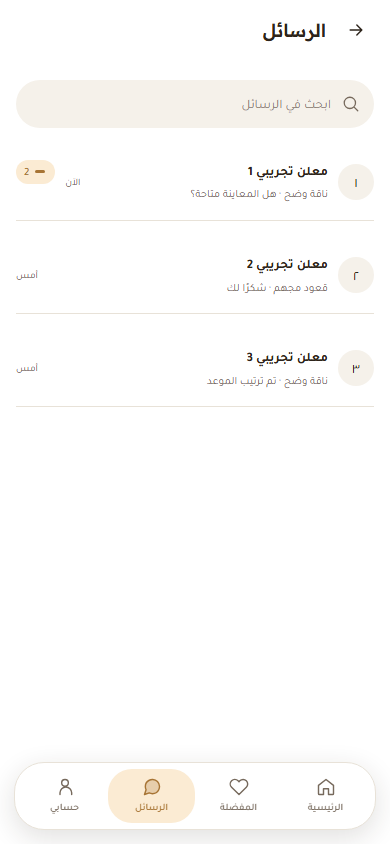
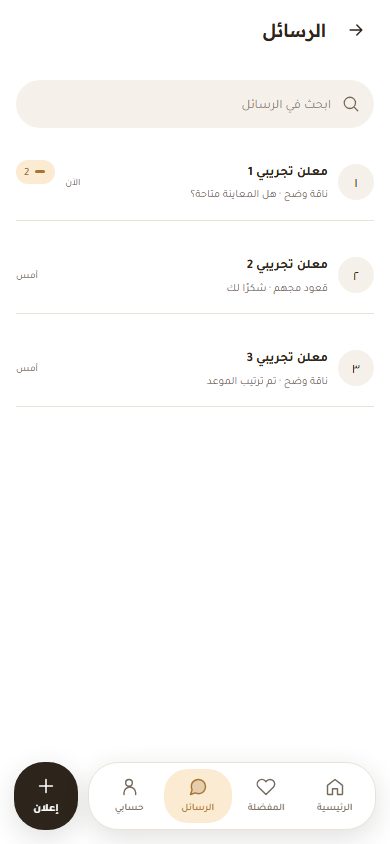
Distinct gallery: show new-ad button on all bottom-nav screens so the bar keeps one size

Changed region(s): [[0.2769, 0.8934, 0.7077, 0.9858], [0.0308, 0.8934, 0.2154, 0.9858], [0.8, 0.9242, 0.8923, 0.9858]]

diff --git a/distinct/screens/G01-dark.html b/distinct/screens/G01-dark.html
@@ -153,7 +153,7 @@ dialog{border-radius:26px}.note{border-radius:16px}
 html[data-theme=dark] .seg-progress i{background:#ffffff1f}
 .sheet-preview{border-radius:30px 30px 18px 18px}
 .theme-swatch{border-radius:18px}
-</style></head><body data-screen="G01"><div class="app has-nav   "><header class="app-header"><button class="icon-btn" type="button" aria-label="رجوع" data-go=B01 ><svg class="icon " viewBox="0 0 24 24" fill="none" stroke="currentColor" stroke-width="1.7" stroke-linecap="round" stroke-linejoin="round" aria-hidden="true"><path d="M5 12h14m-6-6 6 6-6 6"/></svg></button><h1>حسابي</h1><span class="header-spacer"></span></header><main class="content"><div class="account-head"><span class="avatar large">م</span><div><h1>مستخدم تجريبي</h1><small>الرياض · <bdi dir="ltr">05*****321</bdi></small></div><button class="icon-btn" type="button" aria-label="تعديل الملف" data-go=G02 ><svg class="icon " viewBox="0 0 24 24" fill="none" stroke="currentColor" stroke-width="1.7" stroke-linecap="round" stroke-linejoin="round" aria-hidden="true"><path d="m16 3 5 5-13 13H3v-5zM14 5l5 5"/></svg></button></div><div class="grouped-list"><button type="button" class="list-row" data-go=E01><svg class="icon " viewBox="0 0 24 24" fill="none" stroke="currentColor" stroke-width="1.7" stroke-linecap="round" stroke-linejoin="round" aria-hidden="true"><path d="M14 2H5v20h14V7zM14 2v5h5M8 12h8M8 16h6"/></svg><span class="row-copy"><span>إعلاناتي</span></span><svg class="icon muted" viewBox="0 0 24 24" fill="none" stroke="currentColor" stroke-width="1.7" stroke-linecap="round" stroke-linejoin="round" aria-hidden="true"><path d="m14 6-6 6 6 6"/></svg></button><button type="button" class="list-row" data-go=G03><svg class="icon " viewBox="0 0 24 24" fill="none" stroke="currentColor" stroke-width="1.7" stroke-linecap="round" stroke-linejoin="round" aria-hidden="true"><path d="M20.8 4.6a5.5 5.5 0 0 0-7.8 0L12 5.7l-1.1-1.1a5.5 5.5 0 0 0-7.8 7.8L12 21l8.8-8.6a5.5 5.5 0 0 0 0-7.8z"/></svg><span class="row-copy"><span>المتابعات والبحث المحفوظ</span></span><svg class="icon muted" viewBox="0 0 24 24" fill="none" stroke="currentColor" stroke-width="1.7" stroke-linecap="round" stroke-linejoin="round" aria-hidden="true"><path d="m14 6-6 6 6 6"/></svg></button><button type="button" class="list-row" data-go=G04><svg class="icon " viewBox="0 0 24 24" fill="none" stroke="currentColor" stroke-width="1.7" stroke-linecap="round" stroke-linejoin="round" aria-hidden="true"><path d="M18 8a6 6 0 0 0-12 0c0 7-3 7-3 9h18c0-2-3-2-3-9M10 21h4"/></svg><span class="row-copy"><span>التنبيهات</span></span><svg class="icon muted" viewBox="0 0 24 24" fill="none" stroke="currentColor" stroke-width="1.7" stroke-linecap="round" stroke-linejoin="round" aria-hidden="true"><path d="m14 6-6 6 6 6"/></svg></button><button type="button" class="list-row" data-go=G08><svg class="icon " viewBox="0 0 24 24" fill="none" stroke="currentColor" stroke-width="1.7" stroke-linecap="round" stroke-linejoin="round" aria-hidden="true"><path d="M5 10h14v12H5zM8 10V6a4 4 0 0 1 8 0v4"/></svg><span class="row-copy"><span>المحظورون</span></span><svg class="icon muted" viewBox="0 0 24 24" fill="none" stroke="currentColor" stroke-width="1.7" stroke-linecap="round" stroke-linejoin="round" aria-hidden="true"><path d="m14 6-6 6 6 6"/></svg></button><button type="button" class="list-row" data-go=G09><svg class="icon " viewBox="0 0 24 24" fill="none" stroke="currentColor" stroke-width="1.7" stroke-linecap="round" stroke-linejoin="round" aria-hidden="true"><path d="M12 11v6M12 7h.01M22 12a10 10 0 1 1-20 0 10 10 0 0 1 20 0"/></svg><span class="row-copy"><span>الشروط والمساعدة</span></span><svg class="icon muted" viewBox="0 0 24 24" fill="none" stroke="currentColor" stroke-width="1.7" stroke-linecap="round" stroke-linejoin="round" aria-hidden="true"><path d="m14 6-6 6 6 6"/></svg></button><button type="button" class="list-row" data-go=G06><svg class="icon " viewBox="0 0 24 24" fill="none" stroke="currentColor" stroke-width="1.7" stroke-linecap="round" stroke-linejoin="round" aria-hidden="true"><path d="M12 8a4 4 0 1 1 0 8 4 4 0 0 1 0-8M12 2v3M12 19v3M2 12h3M19 12h3M5 5l2 2M17 17l2 2M5 19l2-2M17 7l2-2"/></svg><span class="row-copy"><span>الإعدادات</span></span><svg class="icon muted" viewBox="0 0 24 24" fill="none" stroke="currentColor" stroke-width="1.7" stroke-linecap="round" stroke-linejoin="round" aria-hidden="true"><path d="m14 6-6 6 6 6"/></svg></button></div><button class="btn text danger" type="button" data-go=G10 ><svg class="icon " viewBox="0 0 24 24" fill="none" stroke="currentColor" stroke-width="1.7" stroke-linecap="round" stroke-linejoin="round" aria-hidden="true"><path d="M9 21H3V3h6M15 8l4 4-4 4M8 12h11"/></svg><span>تسجيل الخروج</span></button></main><div class="nav-wrap"><nav class="bottom-nav" aria-label="التنقل الرئيسي"><button data-go="B01" class="" aria-label="الرئيسية"><svg class="icon " viewBox="0 0 24 24" fill="none" stroke="currentColor" stroke-width="1.7" stroke-linecap="round" stroke-linejoin="round" aria-hidden="true"><path d="m3 10 9-7 9 7v10a1 1 0 0 1-1 1h-5v-7H9v7H4a1 1 0 0 1-1-1z"/></svg><span>الرئيسية</span></button><button data-go="B09" class="" aria-label="المفضلة"><svg class="icon " viewBox="0 0 24 24" fill="none" stroke="currentColor" stroke-width="1.7" stroke-linecap="round" stroke-linejoin="round" aria-hidden="true"><path d="M20.8 4.6a5.5 5.5 0 0 0-7.8 0L12 5.7l-1.1-1.1a5.5 5.5 0 0 0-7.8 7.8L12 21l8.8-8.6a5.5 5.5 0 0 0 0-7.8z"/></svg><span>المفضلة</span></button><button data-go="F01" class="" aria-label="الرسائل"><svg class="icon " viewBox="0 0 24 24" fill="none" stroke="currentColor" stroke-width="1.7" stroke-linecap="round" stroke-linejoin="round" aria-hidden="true"><path d="M21 11.5a8.4 8.4 0 0 1-.9 3.8A8.5 8.5 0 0 1 12.5 20a8.4 8.4 0 0 1-3.8-.9L3 21l1.9-5.7a8.4 8.4 0 0 1-.9-3.8A8.5 8.5 0 0 1 8.7 3.9a8.4 8.4 0 0 1 3.8-.9h.5a8.5 8.5 0 0 1 8 8z"/></svg><span>الرسائل</span></button><button data-go="G01" class="active" aria-label="حسابي"><svg class="icon " viewBox="0 0 24 24" fill="none" stroke="currentColor" stroke-width="1.7" stroke-linecap="round" stroke-linejoin="round" aria-hidden="true"><path d="M20 21v-2a7 7 0 0 0-14 0v2M16 7a4 4 0 1 1-8 0 4 4 0 0 1 8 0"/></svg><span>حسابي</span></button></nav></div></div><dialog id="confirm-dialog"><h2 id="confirm-title">تأكيد الإجراء</h2><p>هذه معاينة تصميم، ولن ينفذ إجراء فعلي.</p><div class="stack"><button class="btn" data-dialog-close>حسنًا</button><button class="btn outline" data-dialog-close>إلغاء</button></div></dialog><script>(() => {
+</style></head><body data-screen="G01"><div class="app has-nav has-fab  "><header class="app-header"><button class="icon-btn" type="button" aria-label="رجوع" data-go=B01 ><svg class="icon " viewBox="0 0 24 24" fill="none" stroke="currentColor" stroke-width="1.7" stroke-linecap="round" stroke-linejoin="round" aria-hidden="true"><path d="M5 12h14m-6-6 6 6-6 6"/></svg></button><h1>حسابي</h1><span class="header-spacer"></span></header><main class="content"><div class="account-head"><span class="avatar large">م</span><div><h1>مستخدم تجريبي</h1><small>الرياض · <bdi dir="ltr">05*****321</bdi></small></div><button class="icon-btn" type="button" aria-label="تعديل الملف" data-go=G02 ><svg class="icon " viewBox="0 0 24 24" fill="none" stroke="currentColor" stroke-width="1.7" stroke-linecap="round" stroke-linejoin="round" aria-hidden="true"><path d="m16 3 5 5-13 13H3v-5zM14 5l5 5"/></svg></button></div><div class="grouped-list"><button type="button" class="list-row" data-go=E01><svg class="icon " viewBox="0 0 24 24" fill="none" stroke="currentColor" stroke-width="1.7" stroke-linecap="round" stroke-linejoin="round" aria-hidden="true"><path d="M14 2H5v20h14V7zM14 2v5h5M8 12h8M8 16h6"/></svg><span class="row-copy"><span>إعلاناتي</span></span><svg class="icon muted" viewBox="0 0 24 24" fill="none" stroke="currentColor" stroke-width="1.7" stroke-linecap="round" stroke-linejoin="round" aria-hidden="true"><path d="m14 6-6 6 6 6"/></svg></button><button type="button" class="list-row" data-go=G03><svg class="icon " viewBox="0 0 24 24" fill="none" stroke="currentColor" stroke-width="1.7" stroke-linecap="round" stroke-linejoin="round" aria-hidden="true"><path d="M20.8 4.6a5.5 5.5 0 0 0-7.8 0L12 5.7l-1.1-1.1a5.5 5.5 0 0 0-7.8 7.8L12 21l8.8-8.6a5.5 5.5 0 0 0 0-7.8z"/></svg><span class="row-copy"><span>المتابعات والبحث المحفوظ</span></span><svg class="icon muted" viewBox="0 0 24 24" fill="none" stroke="currentColor" stroke-width="1.7" stroke-linecap="round" stroke-linejoin="round" aria-hidden="true"><path d="m14 6-6 6 6 6"/></svg></button><button type="button" class="list-row" data-go=G04><svg class="icon " viewBox="0 0 24 24" fill="none" stroke="currentColor" stroke-width="1.7" stroke-linecap="round" stroke-linejoin="round" aria-hidden="true"><path d="M18 8a6 6 0 0 0-12 0c0 7-3 7-3 9h18c0-2-3-2-3-9M10 21h4"/></svg><span class="row-copy"><span>التنبيهات</span></span><svg class="icon muted" viewBox="0 0 24 24" fill="none" stroke="currentColor" stroke-width="1.7" stroke-linecap="round" stroke-linejoin="round" aria-hidden="true"><path d="m14 6-6 6 6 6"/></svg></button><button type="button" class="list-row" data-go=G08><svg class="icon " viewBox="0 0 24 24" fill="none" stroke="currentColor" stroke-width="1.7" stroke-linecap="round" stroke-linejoin="round" aria-hidden="true"><path d="M5 10h14v12H5zM8 10V6a4 4 0 0 1 8 0v4"/></svg><span class="row-copy"><span>المحظورون</span></span><svg class="icon muted" viewBox="0 0 24 24" fill="none" stroke="currentColor" stroke-width="1.7" stroke-linecap="round" stroke-linejoin="round" aria-hidden="true"><path d="m14 6-6 6 6 6"/></svg></button><button type="button" class="list-row" data-go=G09><svg class="icon " viewBox="0 0 24 24" fill="none" stroke="currentColor" stroke-width="1.7" stroke-linecap="round" stroke-linejoin="round" aria-hidden="true"><path d="M12 11v6M12 7h.01M22 12a10 10 0 1 1-20 0 10 10 0 0 1 20 0"/></svg><span class="row-copy"><span>الشروط والمساعدة</span></span><svg class="icon muted" viewBox="0 0 24 24" fill="none" stroke="currentColor" stroke-width="1.7" stroke-linecap="round" stroke-linejoin="round" aria-hidden="true"><path d="m14 6-6 6 6 6"/></svg></button><button type="button" class="list-row" data-go=G06><svg class="icon " viewBox="0 0 24 24" fill="none" stroke="currentColor" stroke-width="1.7" stroke-linecap="round" stroke-linejoin="round" aria-hidden="true"><path d="M12 8a4 4 0 1 1 0 8 4 4 0 0 1 0-8M12 2v3M12 19v3M2 12h3M19 12h3M5 5l2 2M17 17l2 2M5 19l2-2M17 7l2-2"/></svg><span class="row-copy"><span>الإعدادات</span></span><svg class="icon muted" viewBox="0 0 24 24" fill="none" stroke="currentColor" stroke-width="1.7" stroke-linecap="round" stroke-linejoin="round" aria-hidden="true"><path d="m14 6-6 6 6 6"/></svg></button></div><button class="btn text danger" type="button" data-go=G10 ><svg class="icon " viewBox="0 0 24 24" fill="none" stroke="currentColor" stroke-width="1.7" stroke-linecap="round" stroke-linejoin="round" aria-hidden="true"><path d="M9 21H3V3h6M15 8l4 4-4 4M8 12h11"/></svg><span>تسجيل الخروج</span></button></main><div class="nav-wrap"><nav class="bottom-nav" aria-label="التنقل الرئيسي"><button data-go="B01" class="" aria-label="الرئيسية"><svg class="icon " viewBox="0 0 24 24" fill="none" stroke="currentColor" stroke-width="1.7" stroke-linecap="round" stroke-linejoin="round" aria-hidden="true"><path d="m3 10 9-7 9 7v10a1 1 0 0 1-1 1h-5v-7H9v7H4a1 1 0 0 1-1-1z"/></svg><span>الرئيسية</span></button><button data-go="B09" class="" aria-label="المفضلة"><svg class="icon " viewBox="0 0 24 24" fill="none" stroke="currentColor" stroke-width="1.7" stroke-linecap="round" stroke-linejoin="round" aria-hidden="true"><path d="M20.8 4.6a5.5 5.5 0 0 0-7.8 0L12 5.7l-1.1-1.1a5.5 5.5 0 0 0-7.8 7.8L12 21l8.8-8.6a5.5 5.5 0 0 0 0-7.8z"/></svg><span>المفضلة</span></button><button data-go="F01" class="" aria-label="الرسائل"><svg class="icon " viewBox="0 0 24 24" fill="none" stroke="currentColor" stroke-width="1.7" stroke-linecap="round" stroke-linejoin="round" aria-hidden="true"><path d="M21 11.5a8.4 8.4 0 0 1-.9 3.8A8.5 8.5 0 0 1 12.5 20a8.4 8.4 0 0 1-3.8-.9L3 21l1.9-5.7a8.4 8.4 0 0 1-.9-3.8A8.5 8.5 0 0 1 8.7 3.9a8.4 8.4 0 0 1 3.8-.9h.5a8.5 8.5 0 0 1 8 8z"/></svg><span>الرسائل</span></button><button data-go="G01" class="active" aria-label="حسابي"><svg class="icon " viewBox="0 0 24 24" fill="none" stroke="currentColor" stroke-width="1.7" stroke-linecap="round" stroke-linejoin="round" aria-hidden="true"><path d="M20 21v-2a7 7 0 0 0-14 0v2M16 7a4 4 0 1 1-8 0 4 4 0 0 1 8 0"/></svg><span>حسابي</span></button></nav><button data-go="D01" class="fab" aria-label="أضف إعلان"><svg class="icon " viewBox="0 0 24 24" fill="none" stroke="currentColor" stroke-width="1.7" stroke-linecap="round" stroke-linejoin="round" aria-hidden="true"><path d="M12 5v14M5 12h14"/></svg><span>إعلان</span></button></div></div><dialog id="confirm-dialog"><h2 id="confirm-title">تأكيد الإجراء</h2><p>هذه معاينة تصميم، ولن ينفذ إجراء فعلي.</p><div class="stack"><button class="btn" data-dialog-close>حسنًا</button><button class="btn outline" data-dialog-close>إلغاء</button></div></dialog><script>(() => {
   const screen = document.body.dataset.screen;
   const urlOffer=new URLSearchParams(location.search).get('offer');
   let offer=['price','auction'].includes(urlOffer)?urlOffer:(screen==='D10'?'auction':'price');

diff --git a/distinct/screens/G01-light.html b/distinct/screens/G01-light.html
@@ -153,7 +153,7 @@ dialog{border-radius:26px}.note{border-radius:16px}
 html[data-theme=dark] .seg-progress i{background:#ffffff1f}
 .sheet-preview{border-radius:30px 30px 18px 18px}
 .theme-swatch{border-radius:18px}
-</style></head><body data-screen="G01"><div class="app has-nav   "><header class="app-header"><button class="icon-btn" type="button" aria-label="رجوع" data-go=B01 ><svg class="icon " viewBox="0 0 24 24" fill="none" stroke="currentColor" stroke-width="1.7" stroke-linecap="round" stroke-linejoin="round" aria-hidden="true"><path d="M5 12h14m-6-6 6 6-6 6"/></svg></button><h1>حسابي</h1><span class="header-spacer"></span></header><main class="content"><div class="account-head"><span class="avatar large">م</span><div><h1>مستخدم تجريبي</h1><small>الرياض · <bdi dir="ltr">05*****321</bdi></small></div><button class="icon-btn" type="button" aria-label="تعديل الملف" data-go=G02 ><svg class="icon " viewBox="0 0 24 24" fill="none" stroke="currentColor" stroke-width="1.7" stroke-linecap="round" stroke-linejoin="round" aria-hidden="true"><path d="m16 3 5 5-13 13H3v-5zM14 5l5 5"/></svg></button></div><div class="grouped-list"><button type="button" class="list-row" data-go=E01><svg class="icon " viewBox="0 0 24 24" fill="none" stroke="currentColor" stroke-width="1.7" stroke-linecap="round" stroke-linejoin="round" aria-hidden="true"><path d="M14 2H5v20h14V7zM14 2v5h5M8 12h8M8 16h6"/></svg><span class="row-copy"><span>إعلاناتي</span></span><svg class="icon muted" viewBox="0 0 24 24" fill="none" stroke="currentColor" stroke-width="1.7" stroke-linecap="round" stroke-linejoin="round" aria-hidden="true"><path d="m14 6-6 6 6 6"/></svg></button><button type="button" class="list-row" data-go=G03><svg class="icon " viewBox="0 0 24 24" fill="none" stroke="currentColor" stroke-width="1.7" stroke-linecap="round" stroke-linejoin="round" aria-hidden="true"><path d="M20.8 4.6a5.5 5.5 0 0 0-7.8 0L12 5.7l-1.1-1.1a5.5 5.5 0 0 0-7.8 7.8L12 21l8.8-8.6a5.5 5.5 0 0 0 0-7.8z"/></svg><span class="row-copy"><span>المتابعات والبحث المحفوظ</span></span><svg class="icon muted" viewBox="0 0 24 24" fill="none" stroke="currentColor" stroke-width="1.7" stroke-linecap="round" stroke-linejoin="round" aria-hidden="true"><path d="m14 6-6 6 6 6"/></svg></button><button type="button" class="list-row" data-go=G04><svg class="icon " viewBox="0 0 24 24" fill="none" stroke="currentColor" stroke-width="1.7" stroke-linecap="round" stroke-linejoin="round" aria-hidden="true"><path d="M18 8a6 6 0 0 0-12 0c0 7-3 7-3 9h18c0-2-3-2-3-9M10 21h4"/></svg><span class="row-copy"><span>التنبيهات</span></span><svg class="icon muted" viewBox="0 0 24 24" fill="none" stroke="currentColor" stroke-width="1.7" stroke-linecap="round" stroke-linejoin="round" aria-hidden="true"><path d="m14 6-6 6 6 6"/></svg></button><button type="button" class="list-row" data-go=G08><svg class="icon " viewBox="0 0 24 24" fill="none" stroke="currentColor" stroke-width="1.7" stroke-linecap="round" stroke-linejoin="round" aria-hidden="true"><path d="M5 10h14v12H5zM8 10V6a4 4 0 0 1 8 0v4"/></svg><span class="row-copy"><span>المحظورون</span></span><svg class="icon muted" viewBox="0 0 24 24" fill="none" stroke="currentColor" stroke-width="1.7" stroke-linecap="round" stroke-linejoin="round" aria-hidden="true"><path d="m14 6-6 6 6 6"/></svg></button><button type="button" class="list-row" data-go=G09><svg class="icon " viewBox="0 0 24 24" fill="none" stroke="currentColor" stroke-width="1.7" stroke-linecap="round" stroke-linejoin="round" aria-hidden="true"><path d="M12 11v6M12 7h.01M22 12a10 10 0 1 1-20 0 10 10 0 0 1 20 0"/></svg><span class="row-copy"><span>الشروط والمساعدة</span></span><svg class="icon muted" viewBox="0 0 24 24" fill="none" stroke="currentColor" stroke-width="1.7" stroke-linecap="round" stroke-linejoin="round" aria-hidden="true"><path d="m14 6-6 6 6 6"/></svg></button><button type="button" class="list-row" data-go=G06><svg class="icon " viewBox="0 0 24 24" fill="none" stroke="currentColor" stroke-width="1.7" stroke-linecap="round" stroke-linejoin="round" aria-hidden="true"><path d="M12 8a4 4 0 1 1 0 8 4 4 0 0 1 0-8M12 2v3M12 19v3M2 12h3M19 12h3M5 5l2 2M17 17l2 2M5 19l2-2M17 7l2-2"/></svg><span class="row-copy"><span>الإعدادات</span></span><svg class="icon muted" viewBox="0 0 24 24" fill="none" stroke="currentColor" stroke-width="1.7" stroke-linecap="round" stroke-linejoin="round" aria-hidden="true"><path d="m14 6-6 6 6 6"/></svg></button></div><button class="btn text danger" type="button" data-go=G10 ><svg class="icon " viewBox="0 0 24 24" fill="none" stroke="currentColor" stroke-width="1.7" stroke-linecap="round" stroke-linejoin="round" aria-hidden="true"><path d="M9 21H3V3h6M15 8l4 4-4 4M8 12h11"/></svg><span>تسجيل الخروج</span></button></main><div class="nav-wrap"><nav class="bottom-nav" aria-label="التنقل الرئيسي"><button data-go="B01" class="" aria-label="الرئيسية"><svg class="icon " viewBox="0 0 24 24" fill="none" stroke="currentColor" stroke-width="1.7" stroke-linecap="round" stroke-linejoin="round" aria-hidden="true"><path d="m3 10 9-7 9 7v10a1 1 0 0 1-1 1h-5v-7H9v7H4a1 1 0 0 1-1-1z"/></svg><span>الرئيسية</span></button><button data-go="B09" class="" aria-label="المفضلة"><svg class="icon " viewBox="0 0 24 24" fill="none" stroke="currentColor" stroke-width="1.7" stroke-linecap="round" stroke-linejoin="round" aria-hidden="true"><path d="M20.8 4.6a5.5 5.5 0 0 0-7.8 0L12 5.7l-1.1-1.1a5.5 5.5 0 0 0-7.8 7.8L12 21l8.8-8.6a5.5 5.5 0 0 0 0-7.8z"/></svg><span>المفضلة</span></button><button data-go="F01" class="" aria-label="الرسائل"><svg class="icon " viewBox="0 0 24 24" fill="none" stroke="currentColor" stroke-width="1.7" stroke-linecap="round" stroke-linejoin="round" aria-hidden="true"><path d="M21 11.5a8.4 8.4 0 0 1-.9 3.8A8.5 8.5 0 0 1 12.5 20a8.4 8.4 0 0 1-3.8-.9L3 21l1.9-5.7a8.4 8.4 0 0 1-.9-3.8A8.5 8.5 0 0 1 8.7 3.9a8.4 8.4 0 0 1 3.8-.9h.5a8.5 8.5 0 0 1 8 8z"/></svg><span>الرسائل</span></button><button data-go="G01" class="active" aria-label="حسابي"><svg class="icon " viewBox="0 0 24 24" fill="none" stroke="currentColor" stroke-width="1.7" stroke-linecap="round" stroke-linejoin="round" aria-hidden="true"><path d="M20 21v-2a7 7 0 0 0-14 0v2M16 7a4 4 0 1 1-8 0 4 4 0 0 1 8 0"/></svg><span>حسابي</span></button></nav></div></div><dialog id="confirm-dialog"><h2 id="confirm-title">تأكيد الإجراء</h2><p>هذه معاينة تصميم، ولن ينفذ إجراء فعلي.</p><div class="stack"><button class="btn" data-dialog-close>حسنًا</button><button class="btn outline" data-dialog-close>إلغاء</button></div></dialog><script>(() => {
+</style></head><body data-screen="G01"><div class="app has-nav has-fab  "><header class="app-header"><button class="icon-btn" type="button" aria-label="رجوع" data-go=B01 ><svg class="icon " viewBox="0 0 24 24" fill="none" stroke="currentColor" stroke-width="1.7" stroke-linecap="round" stroke-linejoin="round" aria-hidden="true"><path d="M5 12h14m-6-6 6 6-6 6"/></svg></button><h1>حسابي</h1><span class="header-spacer"></span></header><main class="content"><div class="account-head"><span class="avatar large">م</span><div><h1>مستخدم تجريبي</h1><small>الرياض · <bdi dir="ltr">05*****321</bdi></small></div><button class="icon-btn" type="button" aria-label="تعديل الملف" data-go=G02 ><svg class="icon " viewBox="0 0 24 24" fill="none" stroke="currentColor" stroke-width="1.7" stroke-linecap="round" stroke-linejoin="round" aria-hidden="true"><path d="m16 3 5 5-13 13H3v-5zM14 5l5 5"/></svg></button></div><div class="grouped-list"><button type="button" class="list-row" data-go=E01><svg class="icon " viewBox="0 0 24 24" fill="none" stroke="currentColor" stroke-width="1.7" stroke-linecap="round" stroke-linejoin="round" aria-hidden="true"><path d="M14 2H5v20h14V7zM14 2v5h5M8 12h8M8 16h6"/></svg><span class="row-copy"><span>إعلاناتي</span></span><svg class="icon muted" viewBox="0 0 24 24" fill="none" stroke="currentColor" stroke-width="1.7" stroke-linecap="round" stroke-linejoin="round" aria-hidden="true"><path d="m14 6-6 6 6 6"/></svg></button><button type="button" class="list-row" data-go=G03><svg class="icon " viewBox="0 0 24 24" fill="none" stroke="currentColor" stroke-width="1.7" stroke-linecap="round" stroke-linejoin="round" aria-hidden="true"><path d="M20.8 4.6a5.5 5.5 0 0 0-7.8 0L12 5.7l-1.1-1.1a5.5 5.5 0 0 0-7.8 7.8L12 21l8.8-8.6a5.5 5.5 0 0 0 0-7.8z"/></svg><span class="row-copy"><span>المتابعات والبحث المحفوظ</span></span><svg class="icon muted" viewBox="0 0 24 24" fill="none" stroke="currentColor" stroke-width="1.7" stroke-linecap="round" stroke-linejoin="round" aria-hidden="true"><path d="m14 6-6 6 6 6"/></svg></button><button type="button" class="list-row" data-go=G04><svg class="icon " viewBox="0 0 24 24" fill="none" stroke="currentColor" stroke-width="1.7" stroke-linecap="round" stroke-linejoin="round" aria-hidden="true"><path d="M18 8a6 6 0 0 0-12 0c0 7-3 7-3 9h18c0-2-3-2-3-9M10 21h4"/></svg><span class="row-copy"><span>التنبيهات</span></span><svg class="icon muted" viewBox="0 0 24 24" fill="none" stroke="currentColor" stroke-width="1.7" stroke-linecap="round" stroke-linejoin="round" aria-hidden="true"><path d="m14 6-6 6 6 6"/></svg></button><button type="button" class="list-row" data-go=G08><svg class="icon " viewBox="0 0 24 24" fill="none" stroke="currentColor" stroke-width="1.7" stroke-linecap="round" stroke-linejoin="round" aria-hidden="true"><path d="M5 10h14v12H5zM8 10V6a4 4 0 0 1 8 0v4"/></svg><span class="row-copy"><span>المحظورون</span></span><svg class="icon muted" viewBox="0 0 24 24" fill="none" stroke="currentColor" stroke-width="1.7" stroke-linecap="round" stroke-linejoin="round" aria-hidden="true"><path d="m14 6-6 6 6 6"/></svg></button><button type="button" class="list-row" data-go=G09><svg class="icon " viewBox="0 0 24 24" fill="none" stroke="currentColor" stroke-width="1.7" stroke-linecap="round" stroke-linejoin="round" aria-hidden="true"><path d="M12 11v6M12 7h.01M22 12a10 10 0 1 1-20 0 10 10 0 0 1 20 0"/></svg><span class="row-copy"><span>الشروط والمساعدة</span></span><svg class="icon muted" viewBox="0 0 24 24" fill="none" stroke="currentColor" stroke-width="1.7" stroke-linecap="round" stroke-linejoin="round" aria-hidden="true"><path d="m14 6-6 6 6 6"/></svg></button><button type="button" class="list-row" data-go=G06><svg class="icon " viewBox="0 0 24 24" fill="none" stroke="currentColor" stroke-width="1.7" stroke-linecap="round" stroke-linejoin="round" aria-hidden="true"><path d="M12 8a4 4 0 1 1 0 8 4 4 0 0 1 0-8M12 2v3M12 19v3M2 12h3M19 12h3M5 5l2 2M17 17l2 2M5 19l2-2M17 7l2-2"/></svg><span class="row-copy"><span>الإعدادات</span></span><svg class="icon muted" viewBox="0 0 24 24" fill="none" stroke="currentColor" stroke-width="1.7" stroke-linecap="round" stroke-linejoin="round" aria-hidden="true"><path d="m14 6-6 6 6 6"/></svg></button></div><button class="btn text danger" type="button" data-go=G10 ><svg class="icon " viewBox="0 0 24 24" fill="none" stroke="currentColor" stroke-width="1.7" stroke-linecap="round" stroke-linejoin="round" aria-hidden="true"><path d="M9 21H3V3h6M15 8l4 4-4 4M8 12h11"/></svg><span>تسجيل الخروج</span></button></main><div class="nav-wrap"><nav class="bottom-nav" aria-label="التنقل الرئيسي"><button data-go="B01" class="" aria-label="الرئيسية"><svg class="icon " viewBox="0 0 24 24" fill="none" stroke="currentColor" stroke-width="1.7" stroke-linecap="round" stroke-linejoin="round" aria-hidden="true"><path d="m3 10 9-7 9 7v10a1 1 0 0 1-1 1h-5v-7H9v7H4a1 1 0 0 1-1-1z"/></svg><span>الرئيسية</span></button><button data-go="B09" class="" aria-label="المفضلة"><svg class="icon " viewBox="0 0 24 24" fill="none" stroke="currentColor" stroke-width="1.7" stroke-linecap="round" stroke-linejoin="round" aria-hidden="true"><path d="M20.8 4.6a5.5 5.5 0 0 0-7.8 0L12 5.7l-1.1-1.1a5.5 5.5 0 0 0-7.8 7.8L12 21l8.8-8.6a5.5 5.5 0 0 0 0-7.8z"/></svg><span>المفضلة</span></button><button data-go="F01" class="" aria-label="الرسائل"><svg class="icon " viewBox="0 0 24 24" fill="none" stroke="currentColor" stroke-width="1.7" stroke-linecap="round" stroke-linejoin="round" aria-hidden="true"><path d="M21 11.5a8.4 8.4 0 0 1-.9 3.8A8.5 8.5 0 0 1 12.5 20a8.4 8.4 0 0 1-3.8-.9L3 21l1.9-5.7a8.4 8.4 0 0 1-.9-3.8A8.5 8.5 0 0 1 8.7 3.9a8.4 8.4 0 0 1 3.8-.9h.5a8.5 8.5 0 0 1 8 8z"/></svg><span>الرسائل</span></button><button data-go="G01" class="active" aria-label="حسابي"><svg class="icon " viewBox="0 0 24 24" fill="none" stroke="currentColor" stroke-width="1.7" stroke-linecap="round" stroke-linejoin="round" aria-hidden="true"><path d="M20 21v-2a7 7 0 0 0-14 0v2M16 7a4 4 0 1 1-8 0 4 4 0 0 1 8 0"/></svg><span>حسابي</span></button></nav><button data-go="D01" class="fab" aria-label="أضف إعلان"><svg class="icon " viewBox="0 0 24 24" fill="none" stroke="currentColor" stroke-width="1.7" stroke-linecap="round" stroke-linejoin="round" aria-hidden="true"><path d="M12 5v14M5 12h14"/></svg><span>إعلان</span></button></div></div><dialog id="confirm-dialog"><h2 id="confirm-title">تأكيد الإجراء</h2><p>هذه معاينة تصميم، ولن ينفذ إجراء فعلي.</p><div class="stack"><button class="btn" data-dialog-close>حسنًا</button><button class="btn outline" data-dialog-close>إلغاء</button></div></dialog><script>(() => {
   const screen = document.body.dataset.screen;
   const urlOffer=new URLSearchParams(location.search).get('offer');
   let offer=['price','auction'].includes(urlOffer)?urlOffer:(screen==='D10'?'auction':'price');

diff --git a/distinct/screens/F01-dark.html b/distinct/screens/F01-dark.html
@@ -153,7 +153,7 @@ dialog{border-radius:26px}.note{border-radius:16px}
 html[data-theme=dark] .seg-progress i{background:#ffffff1f}
 .sheet-preview{border-radius:30px 30px 18px 18px}
 .theme-swatch{border-radius:18px}
-</style></head><body data-screen="F01"><div class="app has-nav   "><header class="app-header"><button class="icon-btn" type="button" aria-label="رجوع" data-go=B01 ><svg class="icon " viewBox="0 0 24 24" fill="none" stroke="currentColor" stroke-width="1.7" stroke-linecap="round" stroke-linejoin="round" aria-hidden="true"><path d="M5 12h14m-6-6 6 6-6 6"/></svg></button><h1>الرسائل</h1><span class="header-spacer"></span></header><main class="content"><div class="searchbar"><svg class="icon " viewBox="0 0 24 24" fill="none" stroke="currentColor" stroke-width="1.7" stroke-linecap="round" stroke-linejoin="round" aria-hidden="true"><path d="M21 21l-5.2-5.2M18 10.5a7.5 7.5 0 1 1-15 0 7.5 7.5 0 0 1 15 0"/></svg><input placeholder="ابحث في الرسائل" aria-label="البحث في الرسائل"></div><button class="conversation-row" data-go="F02"><span class="avatar ">١</span><span><strong>معلن تجريبي 1</strong><small>ناقة وضح · هل المعاينة متاحة؟</small></span><time>الآن</time><span class="badge fixed">2</span></button><button class="conversation-row" data-go="F02"><span class="avatar ">٢</span><span><strong>معلن تجريبي 2</strong><small>قعود مجهم · شكرًا لك</small></span><time>أمس</time></button><button class="conversation-row" data-go="F02"><span class="avatar ">٣</span><span><strong>معلن تجريبي 3</strong><small>ناقة وضح · تم ترتيب الموعد</small></span><time>أمس</time></button></main><div class="nav-wrap"><nav class="bottom-nav" aria-label="التنقل الرئيسي"><button data-go="B01" class="" aria-label="الرئيسية"><svg class="icon " viewBox="0 0 24 24" fill="none" stroke="currentColor" stroke-width="1.7" stroke-linecap="round" stroke-linejoin="round" aria-hidden="true"><path d="m3 10 9-7 9 7v10a1 1 0 0 1-1 1h-5v-7H9v7H4a1 1 0 0 1-1-1z"/></svg><span>الرئيسية</span></button><button data-go="B09" class="" aria-label="المفضلة"><svg class="icon " viewBox="0 0 24 24" fill="none" stroke="currentColor" stroke-width="1.7" stroke-linecap="round" stroke-linejoin="round" aria-hidden="true"><path d="M20.8 4.6a5.5 5.5 0 0 0-7.8 0L12 5.7l-1.1-1.1a5.5 5.5 0 0 0-7.8 7.8L12 21l8.8-8.6a5.5 5.5 0 0 0 0-7.8z"/></svg><span>المفضلة</span></button><button data-go="F01" class="active" aria-label="الرسائل"><svg class="icon " viewBox="0 0 24 24" fill="none" stroke="currentColor" stroke-width="1.7" stroke-linecap="round" stroke-linejoin="round" aria-hidden="true"><path d="M21 11.5a8.4 8.4 0 0 1-.9 3.8A8.5 8.5 0 0 1 12.5 20a8.4 8.4 0 0 1-3.8-.9L3 21l1.9-5.7a8.4 8.4 0 0 1-.9-3.8A8.5 8.5 0 0 1 8.7 3.9a8.4 8.4 0 0 1 3.8-.9h.5a8.5 8.5 0 0 1 8 8z"/></svg><span>الرسائل</span></button><button data-go="G01" class="" aria-label="حسابي"><svg class="icon " viewBox="0 0 24 24" fill="none" stroke="currentColor" stroke-width="1.7" stroke-linecap="round" stroke-linejoin="round" aria-hidden="true"><path d="M20 21v-2a7 7 0 0 0-14 0v2M16 7a4 4 0 1 1-8 0 4 4 0 0 1 8 0"/></svg><span>حسابي</span></button></nav></div></div><dialog id="confirm-dialog"><h2 id="confirm-title">تأكيد الإجراء</h2><p>هذه معاينة تصميم، ولن ينفذ إجراء فعلي.</p><div class="stack"><button class="btn" data-dialog-close>حسنًا</button><button class="btn outline" data-dialog-close>إلغاء</button></div></dialog><script>(() => {
+</style></head><body data-screen="F01"><div class="app has-nav has-fab  "><header class="app-header"><button class="icon-btn" type="button" aria-label="رجوع" data-go=B01 ><svg class="icon " viewBox="0 0 24 24" fill="none" stroke="currentColor" stroke-width="1.7" stroke-linecap="round" stroke-linejoin="round" aria-hidden="true"><path d="M5 12h14m-6-6 6 6-6 6"/></svg></button><h1>الرسائل</h1><span class="header-spacer"></span></header><main class="content"><div class="searchbar"><svg class="icon " viewBox="0 0 24 24" fill="none" stroke="currentColor" stroke-width="1.7" stroke-linecap="round" stroke-linejoin="round" aria-hidden="true"><path d="M21 21l-5.2-5.2M18 10.5a7.5 7.5 0 1 1-15 0 7.5 7.5 0 0 1 15 0"/></svg><input placeholder="ابحث في الرسائل" aria-label="البحث في الرسائل"></div><button class="conversation-row" data-go="F02"><span class="avatar ">١</span><span><strong>معلن تجريبي 1</strong><small>ناقة وضح · هل المعاينة متاحة؟</small></span><time>الآن</time><span class="badge fixed">2</span></button><button class="conversation-row" data-go="F02"><span class="avatar ">٢</span><span><strong>معلن تجريبي 2</strong><small>قعود مجهم · شكرًا لك</small></span><time>أمس</time></button><button class="conversation-row" data-go="F02"><span class="avatar ">٣</span><span><strong>معلن تجريبي 3</strong><small>ناقة وضح · تم ترتيب الموعد</small></span><time>أمس</time></button></main><div class="nav-wrap"><nav class="bottom-nav" aria-label="التنقل الرئيسي"><button data-go="B01" class="" aria-label="الرئيسية"><svg class="icon " viewBox="0 0 24 24" fill="none" stroke="currentColor" stroke-width="1.7" stroke-linecap="round" stroke-linejoin="round" aria-hidden="true"><path d="m3 10 9-7 9 7v10a1 1 0 0 1-1 1h-5v-7H9v7H4a1 1 0 0 1-1-1z"/></svg><span>الرئيسية</span></button><button data-go="B09" class="" aria-label="المفضلة"><svg class="icon " viewBox="0 0 24 24" fill="none" stroke="currentColor" stroke-width="1.7" stroke-linecap="round" stroke-linejoin="round" aria-hidden="true"><path d="M20.8 4.6a5.5 5.5 0 0 0-7.8 0L12 5.7l-1.1-1.1a5.5 5.5 0 0 0-7.8 7.8L12 21l8.8-8.6a5.5 5.5 0 0 0 0-7.8z"/></svg><span>المفضلة</span></button><button data-go="F01" class="active" aria-label="الرسائل"><svg class="icon " viewBox="0 0 24 24" fill="none" stroke="currentColor" stroke-width="1.7" stroke-linecap="round" stroke-linejoin="round" aria-hidden="true"><path d="M21 11.5a8.4 8.4 0 0 1-.9 3.8A8.5 8.5 0 0 1 12.5 20a8.4 8.4 0 0 1-3.8-.9L3 21l1.9-5.7a8.4 8.4 0 0 1-.9-3.8A8.5 8.5 0 0 1 8.7 3.9a8.4 8.4 0 0 1 3.8-.9h.5a8.5 8.5 0 0 1 8 8z"/></svg><span>الرسائل</span></button><button data-go="G01" class="" aria-label="حسابي"><svg class="icon " viewBox="0 0 24 24" fill="none" stroke="currentColor" stroke-width="1.7" stroke-linecap="round" stroke-linejoin="round" aria-hidden="true"><path d="M20 21v-2a7 7 0 0 0-14 0v2M16 7a4 4 0 1 1-8 0 4 4 0 0 1 8 0"/></svg><span>حسابي</span></button></nav><button data-go="D01" class="fab" aria-label="أضف إعلان"><svg class="icon " viewBox="0 0 24 24" fill="none" stroke="currentColor" stroke-width="1.7" stroke-linecap="round" stroke-linejoin="round" aria-hidden="true"><path d="M12 5v14M5 12h14"/></svg><span>إعلان</span></button></div></div><dialog id="confirm-dialog"><h2 id="confirm-title">تأكيد الإجراء</h2><p>هذه معاينة تصميم، ولن ينفذ إجراء فعلي.</p><div class="stack"><button class="btn" data-dialog-close>حسنًا</button><button class="btn outline" data-dialog-close>إلغاء</button></div></dialog><script>(() => {
   const screen = document.body.dataset.screen;
   const urlOffer=new URLSearchParams(location.search).get('offer');
   let offer=['price','auction'].includes(urlOffer)?urlOffer:(screen==='D10'?'auction':'price');

diff --git a/distinct/screens/F01-light.html b/distinct/screens/F01-light.html
@@ -153,7 +153,7 @@ dialog{border-radius:26px}.note{border-radius:16px}
 html[data-theme=dark] .seg-progress i{background:#ffffff1f}
 .sheet-preview{border-radius:30px 30px 18px 18px}
 .theme-swatch{border-radius:18px}
-</style></head><body data-screen="F01"><div class="app has-nav   "><header class="app-header"><button class="icon-btn" type="button" aria-label="رجوع" data-go=B01 ><svg class="icon " viewBox="0 0 24 24" fill="none" stroke="currentColor" stroke-width="1.7" stroke-linecap="round" stroke-linejoin="round" aria-hidden="true"><path d="M5 12h14m-6-6 6 6-6 6"/></svg></button><h1>الرسائل</h1><span class="header-spacer"></span></header><main class="content"><div class="searchbar"><svg class="icon " viewBox="0 0 24 24" fill="none" stroke="currentColor" stroke-width="1.7" stroke-linecap="round" stroke-linejoin="round" aria-hidden="true"><path d="M21 21l-5.2-5.2M18 10.5a7.5 7.5 0 1 1-15 0 7.5 7.5 0 0 1 15 0"/></svg><input placeholder="ابحث في الرسائل" aria-label="البحث في الرسائل"></div><button class="conversation-row" data-go="F02"><span class="avatar ">١</span><span><strong>معلن تجريبي 1</strong><small>ناقة وضح · هل المعاينة متاحة؟</small></span><time>الآن</time><span class="badge fixed">2</span></button><button class="conversation-row" data-go="F02"><span class="avatar ">٢</span><span><strong>معلن تجريبي 2</strong><small>قعود مجهم · شكرًا لك</small></span><time>أمس</time></button><button class="conversation-row" data-go="F02"><span class="avatar ">٣</span><span><strong>معلن تجريبي 3</strong><small>ناقة وضح · تم ترتيب الموعد</small></span><time>أمس</time></button></main><div class="nav-wrap"><nav class="bottom-nav" aria-label="التنقل الرئيسي"><button data-go="B01" class="" aria-label="الرئيسية"><svg class="icon " viewBox="0 0 24 24" fill="none" stroke="currentColor" stroke-width="1.7" stroke-linecap="round" stroke-linejoin="round" aria-hidden="true"><path d="m3 10 9-7 9 7v10a1 1 0 0 1-1 1h-5v-7H9v7H4a1 1 0 0 1-1-1z"/></svg><span>الرئيسية</span></button><button data-go="B09" class="" aria-label="المفضلة"><svg class="icon " viewBox="0 0 24 24" fill="none" stroke="currentColor" stroke-width="1.7" stroke-linecap="round" stroke-linejoin="round" aria-hidden="true"><path d="M20.8 4.6a5.5 5.5 0 0 0-7.8 0L12 5.7l-1.1-1.1a5.5 5.5 0 0 0-7.8 7.8L12 21l8.8-8.6a5.5 5.5 0 0 0 0-7.8z"/></svg><span>المفضلة</span></button><button data-go="F01" class="active" aria-label="الرسائل"><svg class="icon " viewBox="0 0 24 24" fill="none" stroke="currentColor" stroke-width="1.7" stroke-linecap="round" stroke-linejoin="round" aria-hidden="true"><path d="M21 11.5a8.4 8.4 0 0 1-.9 3.8A8.5 8.5 0 0 1 12.5 20a8.4 8.4 0 0 1-3.8-.9L3 21l1.9-5.7a8.4 8.4 0 0 1-.9-3.8A8.5 8.5 0 0 1 8.7 3.9a8.4 8.4 0 0 1 3.8-.9h.5a8.5 8.5 0 0 1 8 8z"/></svg><span>الرسائل</span></button><button data-go="G01" class="" aria-label="حسابي"><svg class="icon " viewBox="0 0 24 24" fill="none" stroke="currentColor" stroke-width="1.7" stroke-linecap="round" stroke-linejoin="round" aria-hidden="true"><path d="M20 21v-2a7 7 0 0 0-14 0v2M16 7a4 4 0 1 1-8 0 4 4 0 0 1 8 0"/></svg><span>حسابي</span></button></nav></div></div><dialog id="confirm-dialog"><h2 id="confirm-title">تأكيد الإجراء</h2><p>هذه معاينة تصميم، ولن ينفذ إجراء فعلي.</p><div class="stack"><button class="btn" data-dialog-close>حسنًا</button><button class="btn outline" data-dialog-close>إلغاء</button></div></dialog><script>(() => {
+</style></head><body data-screen="F01"><div class="app has-nav has-fab  "><header class="app-header"><button class="icon-btn" type="button" aria-label="رجوع" data-go=B01 ><svg class="icon " viewBox="0 0 24 24" fill="none" stroke="currentColor" stroke-width="1.7" stroke-linecap="round" stroke-linejoin="round" aria-hidden="true"><path d="M5 12h14m-6-6 6 6-6 6"/></svg></button><h1>الرسائل</h1><span class="header-spacer"></span></header><main class="content"><div class="searchbar"><svg class="icon " viewBox="0 0 24 24" fill="none" stroke="currentColor" stroke-width="1.7" stroke-linecap="round" stroke-linejoin="round" aria-hidden="true"><path d="M21 21l-5.2-5.2M18 10.5a7.5 7.5 0 1 1-15 0 7.5 7.5 0 0 1 15 0"/></svg><input placeholder="ابحث في الرسائل" aria-label="البحث في الرسائل"></div><button class="conversation-row" data-go="F02"><span class="avatar ">١</span><span><strong>معلن تجريبي 1</strong><small>ناقة وضح · هل المعاينة متاحة؟</small></span><time>الآن</time><span class="badge fixed">2</span></button><button class="conversation-row" data-go="F02"><span class="avatar ">٢</span><span><strong>معلن تجريبي 2</strong><small>قعود مجهم · شكرًا لك</small></span><time>أمس</time></button><button class="conversation-row" data-go="F02"><span class="avatar ">٣</span><span><strong>معلن تجريبي 3</strong><small>ناقة وضح · تم ترتيب الموعد</small></span><time>أمس</time></button></main><div class="nav-wrap"><nav class="bottom-nav" aria-label="التنقل الرئيسي"><button data-go="B01" class="" aria-label="الرئيسية"><svg class="icon " viewBox="0 0 24 24" fill="none" stroke="currentColor" stroke-width="1.7" stroke-linecap="round" stroke-linejoin="round" aria-hidden="true"><path d="m3 10 9-7 9 7v10a1 1 0 0 1-1 1h-5v-7H9v7H4a1 1 0 0 1-1-1z"/></svg><span>الرئيسية</span></button><button data-go="B09" class="" aria-label="المفضلة"><svg class="icon " viewBox="0 0 24 24" fill="none" stroke="currentColor" stroke-width="1.7" stroke-linecap="round" stroke-linejoin="round" aria-hidden="true"><path d="M20.8 4.6a5.5 5.5 0 0 0-7.8 0L12 5.7l-1.1-1.1a5.5 5.5 0 0 0-7.8 7.8L12 21l8.8-8.6a5.5 5.5 0 0 0 0-7.8z"/></svg><span>المفضلة</span></button><button data-go="F01" class="active" aria-label="الرسائل"><svg class="icon " viewBox="0 0 24 24" fill="none" stroke="currentColor" stroke-width="1.7" stroke-linecap="round" stroke-linejoin="round" aria-hidden="true"><path d="M21 11.5a8.4 8.4 0 0 1-.9 3.8A8.5 8.5 0 0 1 12.5 20a8.4 8.4 0 0 1-3.8-.9L3 21l1.9-5.7a8.4 8.4 0 0 1-.9-3.8A8.5 8.5 0 0 1 8.7 3.9a8.4 8.4 0 0 1 3.8-.9h.5a8.5 8.5 0 0 1 8 8z"/></svg><span>الرسائل</span></button><button data-go="G01" class="" aria-label="حسابي"><svg class="icon " viewBox="0 0 24 24" fill="none" stroke="currentColor" stroke-width="1.7" stroke-linecap="round" stroke-linejoin="round" aria-hidden="true"><path d="M20 21v-2a7 7 0 0 0-14 0v2M16 7a4 4 0 1 1-8 0 4 4 0 0 1 8 0"/></svg><span>حسابي</span></button></nav><button data-go="D01" class="fab" aria-label="أضف إعلان"><svg class="icon " viewBox="0 0 24 24" fill="none" stroke="currentColor" stroke-width="1.7" stroke-linecap="round" stroke-linejoin="round" aria-hidden="true"><path d="M12 5v14M5 12h14"/></svg><span>إعلان</span></button></div></div><dialog id="confirm-dialog"><h2 id="confirm-title">تأكيد الإجراء</h2><p>هذه معاينة تصميم، ولن ينفذ إجراء فعلي.</p><div class="stack"><button class="btn" data-dialog-close>حسنًا</button><button class="btn outline" data-dialog-close>إلغاء</button></div></dialog><script>(() => {
   const screen = document.body.dataset.screen;
   const urlOffer=new URLSearchParams(location.search).get('offer');
   let offer=['price','auction'].includes(urlOffer)?urlOffer:(screen==='D10'?'auction':'price');
